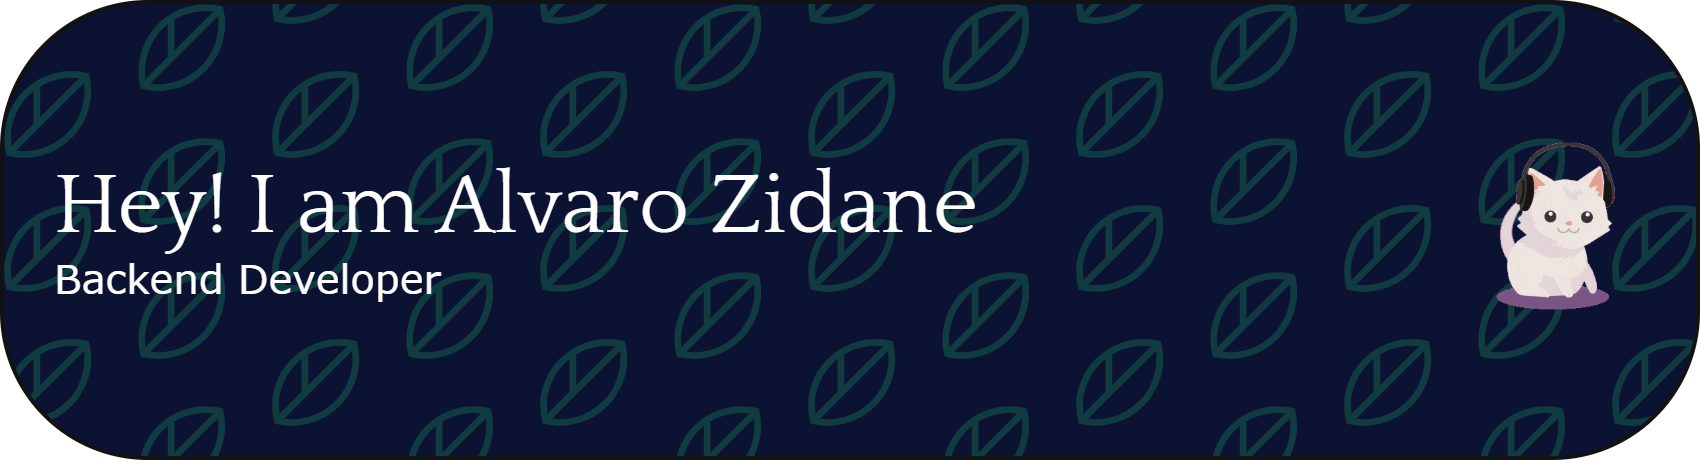
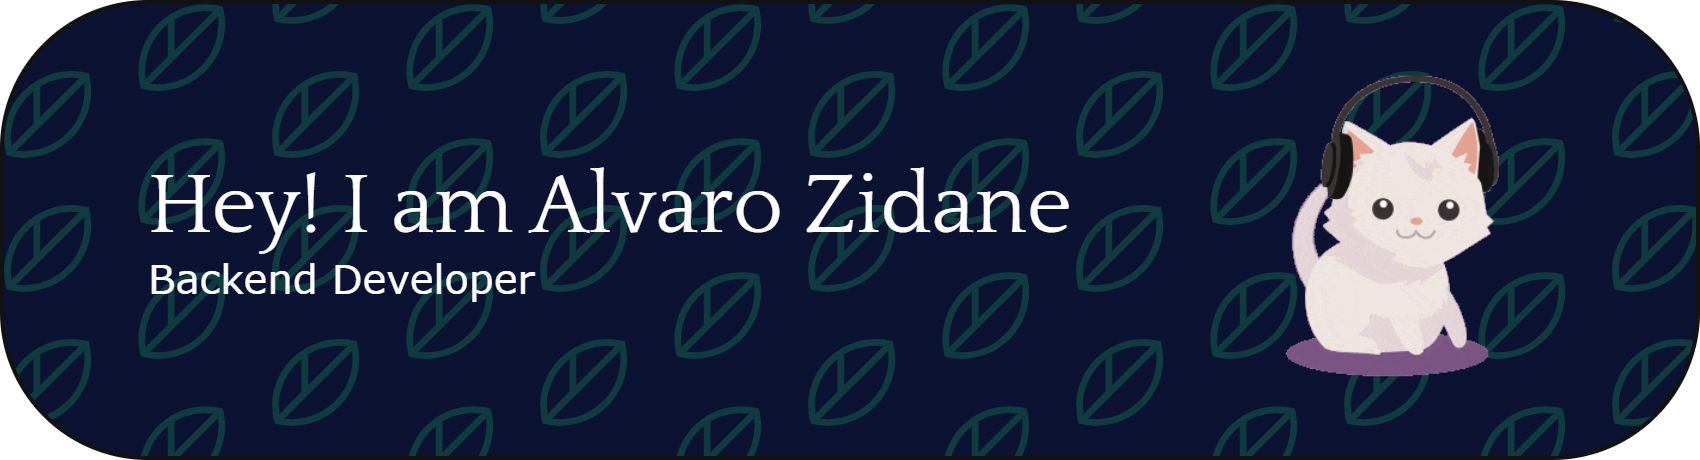
Bagusin tampilan lagi

Changed region(s): [[0.7482, 0.1522, 0.9665, 0.8217], [0.0312, 0.3652, 0.6547, 0.5478], [0.0312, 0.5783, 0.3118, 0.6391]]

diff --git a/README.md b/README.md
@@ -1,4 +1,4 @@
-## Hi there 👋 I'm Alvaro Zidane
+## HELLO HELLO, WELCOME🙌
 ![varo Zidane](img/github-header-banner.png)
 <!--
 **alvarozidan/alvarozidan** is a ✨ _special_ ✨ repository because its `README.md` (this file) appears on your GitHub profile.
@@ -15,18 +15,20 @@ Here are some ideas to get you started:
 - ⚡ Fun fact: ...
 -->
 
+- 🔭 I’m currently working on **Backend and Database**
 - 🌱 I’m currently learning **php and Laravel**
 - ✨ I’m a **students 11th grade**
+- ⚡ Fun fact:**I also interest with AI Development and IoT**
+
 ##### Skills
-<img src="https://img.shields.io/badge/PHP-777BB4?style=for-the-badge&logo=php&logoColor=white"/>
-<img src="https://img.shields.io/badge/Python-FFD43B?style=for-the-badge&logo=python&logoColor=blue"/>
-<img src="https://img.shields.io/badge/ChatGPT-74aa9c?style=for-the-badge&logo=openai&logoColor=white"/>
-<img src="https://img.shields.io/badge/github%20copilot-000000?style=for-the-badge&logo=githubcopilot&logoColor=white"/>
-<img src="https://img.shields.io/badge/phpmyadmin-6C78AF?style=for-the-badge&logo=phpmyadmin&logoColor=white"/>
-<img src="https://img.shields.io/badge/MySQL-005C84?style=for-the-badge&logo=mysql&logoColor=white"/>
-<img src="https://img.shields.io/badge/Laragon-0E83CD?style=for-the-badge&logo=Laragon&logoColor=white"/>
-<img src="https://img.shields.io/badge/Laravel-FF2D20?style=for-the-badge&logo=laravel&logoColor=white"/>
-<img src="https://img.shields.io/badge/livewire-4e56a6?style=for-the-badge&logo=livewire&logoColor=white"/>
+<p align="center">
+  <a href="https://skillicons.dev">
+    <img src="https://skillicons.dev/icons?i=py,mysql,php,java,laravel" />
+  </a>
+</p>
 
 ##### Connect with me
 ![ig alvaro](https://img.shields.io/badge/Instagram-E4405F?style=for-the-badge&logo=instagram&logoColor=white)
+![dc varo](https://img.shields.io/badge/Discord-5865F2?style=for-the-badge&logo=discord&logoColor=white)
+![wa varo](https://img.shields.io/badge/WhatsApp-25D366?style=for-the-badge&logo=WhatsApp&logoColor=white)
+![tik tok porto](https://img.shields.io/badge/TikTok-000000?style=for-the-badge&logo=tiktok&logoColor=white)
